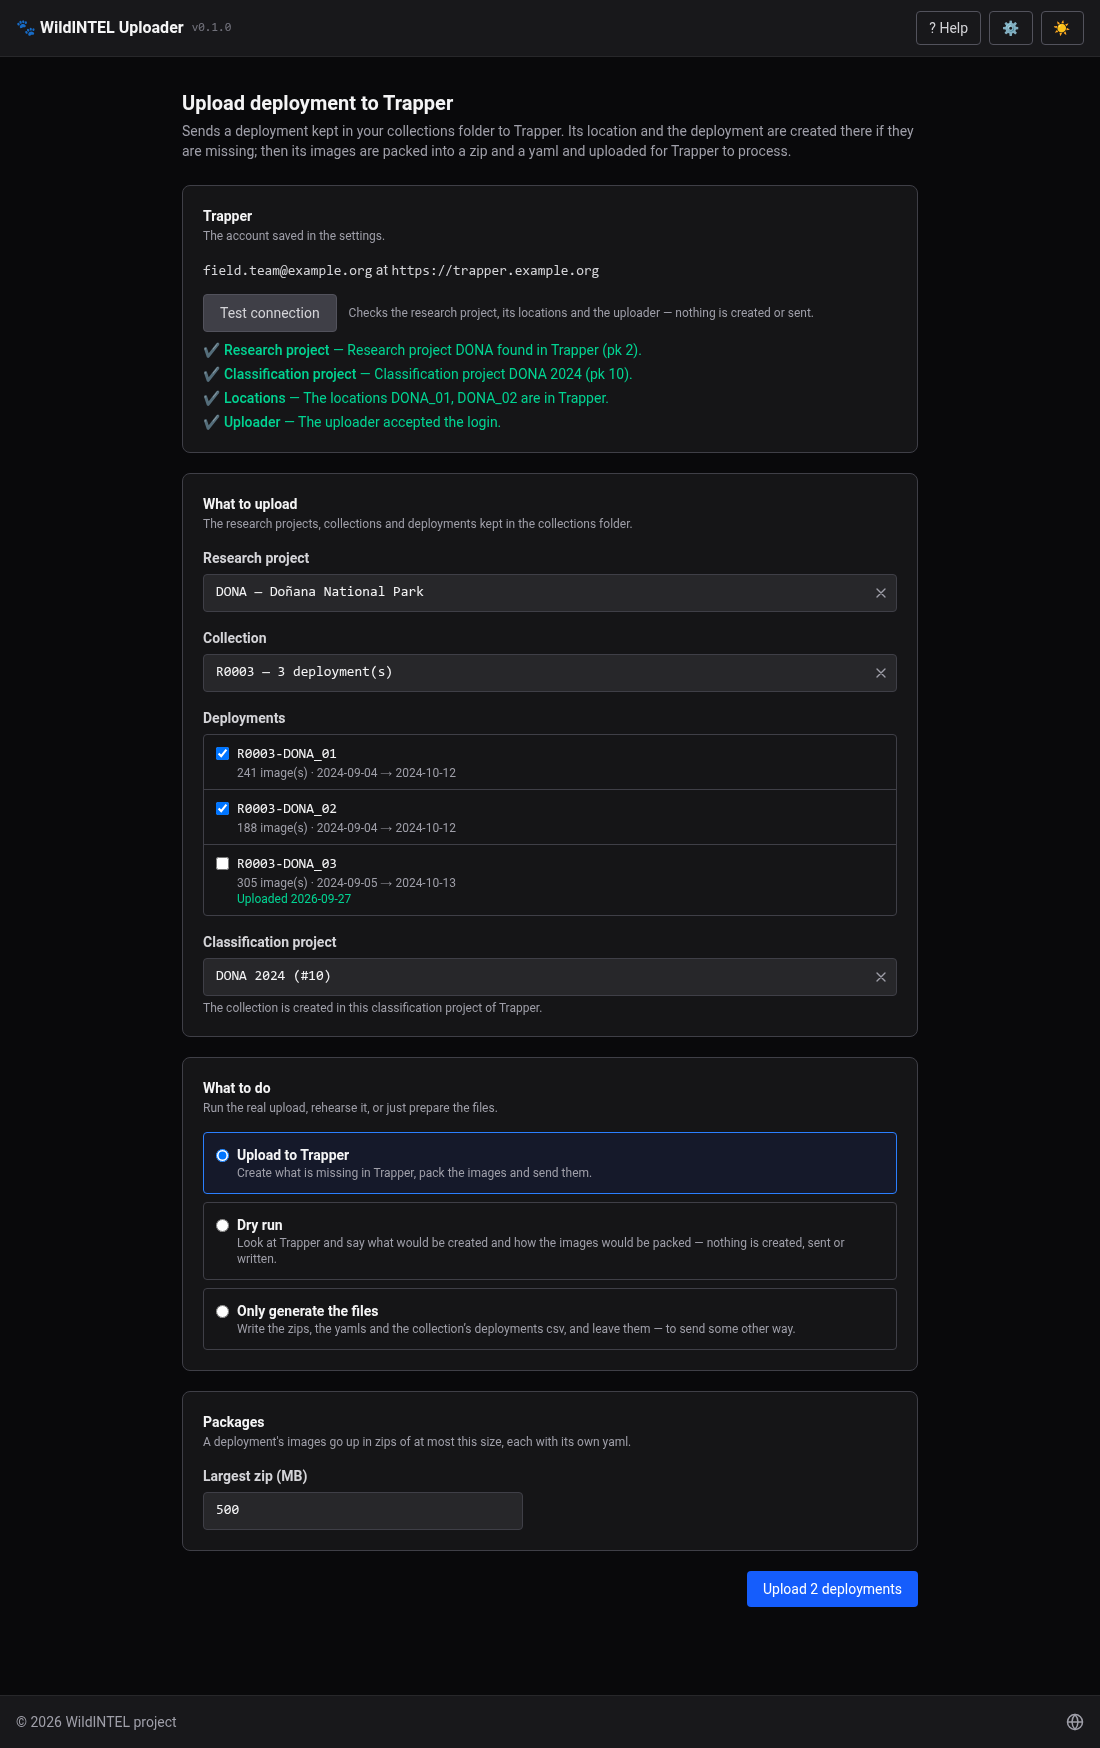
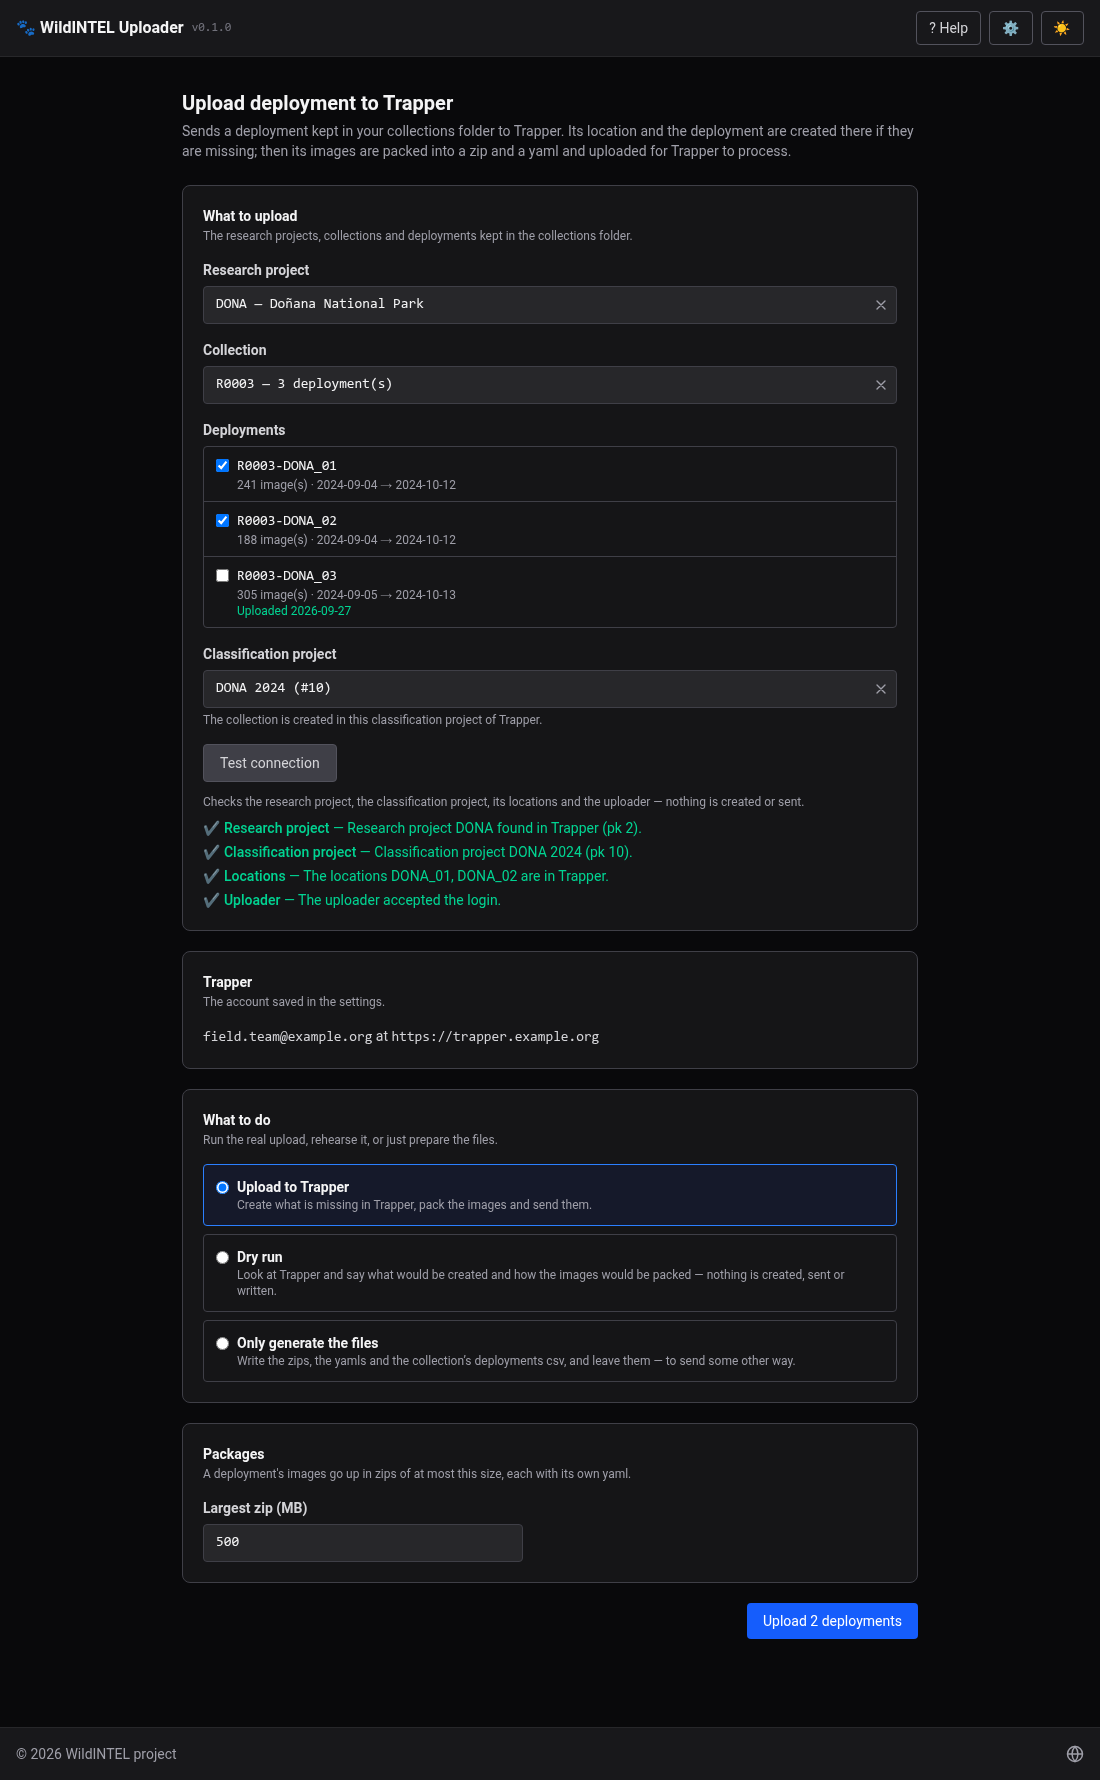
Upload: What to upload comes first and Test connection follows the classification project

diff --git a/frontend/src/pages/UploadDeploymentPage.tsx b/frontend/src/pages/UploadDeploymentPage.tsx
@@ -214,43 +214,6 @@ export default function UploadDeploymentPage({ initial }: Props = {}) {
         missing; then its images are packed into a zip and a yaml and uploaded for Trapper to process.
       </p>
 
-      <Card title="Trapper" description={mode === 'generate' ? 'The account saved in the settings — not needed just to generate the files.' : 'The account saved in the settings.'}>
-        {trapper === null ? (
-          <p className="text-sm text-zinc-500 dark:text-zinc-400">Reading the settings…</p>
-        ) : connected ? (
-          <p className="text-sm text-zinc-700 dark:text-zinc-300">
-            <span className="font-mono">{trapper.user_name}</span> at <span className="font-mono">{trapper.base_url}</span>
-          </p>
-        ) : (
-          <p className="text-sm text-amber-600 dark:text-amber-400">
-            There is no Trapper account saved yet — set its URL, username and password in Settings › Trapper first
-            {mode === 'generate' ? ' (to look up a research project that was not filled in from Trapper).' : '.'}
-          </p>
-        )}
-        {connected && (
-          <div className="mt-3">
-            <div className="flex items-center gap-3 flex-wrap">
-              <button type="button" className={btnOutline} disabled={!projectId || testing || uploading} onClick={handleTestAccess}>
-                {testing ? 'Testing…' : 'Test connection'}
-              </button>
-              <span className="text-xs text-zinc-500 dark:text-zinc-400">
-                {projectId ? 'Checks the research project, its locations and the uploader — nothing is created or sent.' : 'Pick a research project below to test the access to it.'}
-              </span>
-            </div>
-            {accessError && <p className="text-sm text-red-600 dark:text-red-400 mt-2">{accessError}</p>}
-            {access && (
-              <ul className="mt-2 space-y-1 text-sm" aria-label="Connection test">
-                {access.map((c) => (
-                  <li key={c.check} className={c.ok ? 'text-emerald-600 dark:text-emerald-400' : 'text-red-600 dark:text-red-400'}>
-                    {c.ok ? '✔' : '⚠'} <span className="font-medium">{ACCESS_LABELS[c.check]}</span> — {c.message}
-                  </li>
-                ))}
-              </ul>
-            )}
-          </div>
-        )}
-      </Card>
-
       <Card title="What to upload" description="The research projects, collections and deployments kept in the collections folder.">
         <div className="mb-4">
           <label className={labelClass} htmlFor="upload-research-project">Research project</label>
@@ -323,7 +286,42 @@ export default function UploadDeploymentPage({ initial }: Props = {}) {
             )}
           </div>
         )}
+        {collection && connected && classificationReady && (
+          <div className="mt-4">
+            <div className="flex items-center gap-3 flex-wrap">
+              <button type="button" className={btnOutline} disabled={testing || uploading} onClick={handleTestAccess}>
+                {testing ? 'Testing…' : 'Test connection'}
+              </button>
+              <span className="text-xs text-zinc-500 dark:text-zinc-400">Checks the research project, the classification project, its locations and the uploader — nothing is created or sent.</span>
+            </div>
+            {accessError && <p className="text-sm text-red-600 dark:text-red-400 mt-2">{accessError}</p>}
+            {access && (
+              <ul className="mt-2 space-y-1 text-sm" aria-label="Connection test">
+                {access.map((c) => (
+                  <li key={c.check} className={c.ok ? 'text-emerald-600 dark:text-emerald-400' : 'text-red-600 dark:text-red-400'}>
+                    {c.ok ? '✔' : '⚠'} <span className="font-medium">{ACCESS_LABELS[c.check]}</span> — {c.message}
+                  </li>
+                ))}
+              </ul>
+            )}
+          </div>
+        )}
         {loadError && <p className="text-sm text-red-600 dark:text-red-400 mt-2">{loadError}</p>}
+      </Card>
+
+      <Card title="Trapper" description={mode === 'generate' ? 'The account saved in the settings — not needed just to generate the files.' : 'The account saved in the settings.'}>
+        {trapper === null ? (
+          <p className="text-sm text-zinc-500 dark:text-zinc-400">Reading the settings…</p>
+        ) : connected ? (
+          <p className="text-sm text-zinc-700 dark:text-zinc-300">
+            <span className="font-mono">{trapper.user_name}</span> at <span className="font-mono">{trapper.base_url}</span>
+          </p>
+        ) : (
+          <p className="text-sm text-amber-600 dark:text-amber-400">
+            There is no Trapper account saved yet — set its URL, username and password in Settings › Trapper first
+            {mode === 'generate' ? ' (to look up a research project that was not filled in from Trapper).' : '.'}
+          </p>
+        )}
       </Card>
 
       {collection && (

diff --git a/frontend/src/pages/UploadDeploymentPage.test.tsx b/frontend/src/pages/UploadDeploymentPage.test.tsx
@@ -351,15 +351,15 @@ describe('UploadDeploymentPage', () => {
   })
 
   describe('testing the connection', () => {
-    it('needs a research project, then checks the project, its locations and the uploader without uploading anything', async () => {
+    it('comes after the classification project, and checks the project, its locations and the uploader without uploading anything', async () => {
       mockedApi.checkUploadAccess.mockResolvedValue({ checks: [
         { check: 'research_project', ok: true, message: 'Research project DONA is #2 in Trapper.' },
         { check: 'location', ok: true, message: 'The 5 location(s) of the research project can be read. Would be created: DONA_02.' },
         { check: 'uploader', ok: false, message: "Trapper's uploader refused POST https://trapper.example.org/uploader/auth/login: 403 Forbidden." },
       ] })
       render(<UploadDeploymentPage />)
-      const button = await screen.findByRole('button', { name: 'Test connection' })
-      expect(button).toBeDisabled()
+      await screen.findByLabelText('Research project')
+      expect(screen.queryByRole('button', { name: 'Test connection' })).not.toBeInTheDocument() // only once the classification project is chosen
 
       await userEvent.click(await screen.findByLabelText('Research project'))
       await userEvent.click(await screen.findByRole('option', { name: 'DONA — Doñana' }))
@@ -380,7 +380,9 @@ describe('UploadDeploymentPage', () => {
       render(<UploadDeploymentPage />)
       await userEvent.click(await screen.findByLabelText('Research project'))
       await userEvent.click(await screen.findByRole('option', { name: 'DONA — Doñana' }))
-      await userEvent.click(screen.getByRole('button', { name: 'Test connection' }))
+      await userEvent.click(await screen.findByLabelText('Collection'))
+      await userEvent.click(await screen.findByRole('option', { name: /^R0003/ }))
+      await userEvent.click(await screen.findByRole('button', { name: 'Test connection' }))
       expect(await screen.findByText(/account isn.t set up/)).toBeInTheDocument()
     })
   })

diff --git a/docs/user-manual-web.md b/docs/user-manual-web.md
@@ -454,12 +454,6 @@ The deployment must have been imported with the wizard — the yaml needs the da
 `preprocessing.json` records. One that wasn't says "Not preprocessed — import it again through the
 wizard before uploading it", and can't be ticked.
 
-### Trapper
-
-The account is the one saved in the settings. **Test connection** checks, changing nothing, that
-the account reaches the research project, its locations (and which of the deployments' own would
-be created) and the uploader's login, each reported on its own. Do it before a big upload.
-
 ### What to upload
 
 1. **Research project** — those kept in the collections folder.
@@ -468,6 +462,13 @@ be created) and the uploader's login, each reported on its own. Do it before a b
 3. **Classification project** — the collection is created in one of Trapper's classification
    projects for the research project: pick it (or, if there is only one, it is used). Without a
    Trapper account, type its pk.
+4. **Test connection** — appears once the classification project is chosen. It checks, changing nothing, that the account reaches the research
+   project, the classification project, its locations (and which of the deployments' own would be created) and the uploader's login, each
+   reported on its own. Do it before a big upload.
+
+### Trapper
+
+The account is the one saved in the settings; it is shown under what to upload.
 
 ### What to do
 
